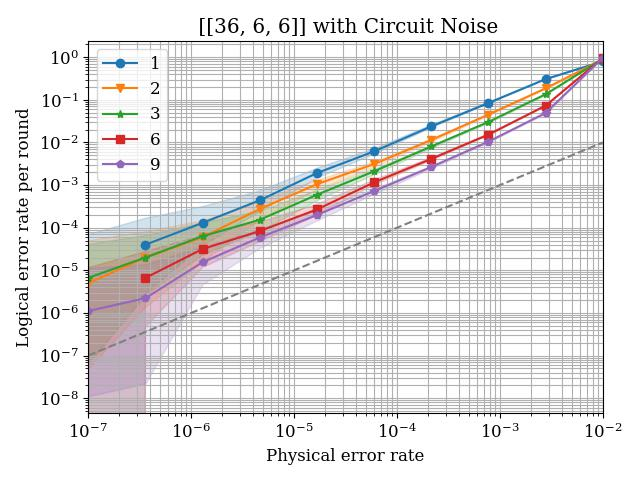
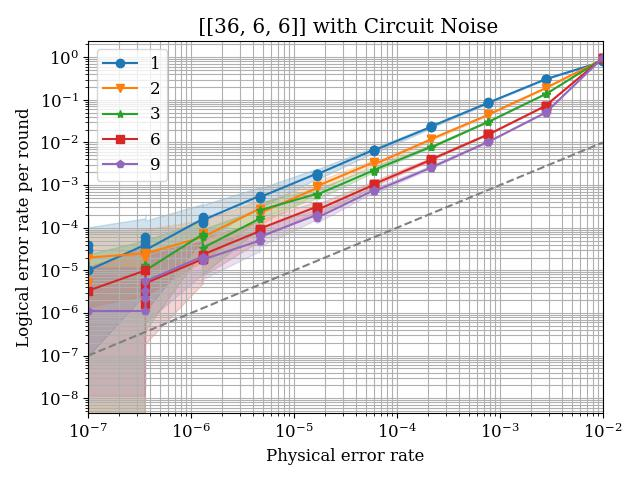
minor changes

diff --git a/mirror.py b/mirror.py
@@ -464,6 +464,7 @@ class MirrorCode():
         Returns:
             * stim.Circuit object of the syndrome extraction circuit for the mirror code.
         """
+        print("Bare...")
         # The first n qubits are the data qubits, and will be the controls for the syndromes.
         QUBITS_PER_STAB = 1
         stabilizers = self.get_stabilizers()
@@ -522,6 +523,7 @@ class MirrorCode():
         Returns:
             * stim.Circuit object of the syndrome extraction circuit for the mirror code.
         """
+        print("Loop...")
         # The first n qubits are the data qubits, and will be the controls for the syndromes.
         QUBITS_PER_STAB = 2
         stabilizers = self.get_stabilizers()
@@ -589,6 +591,7 @@ class MirrorCode():
         Returns:
             * stim.Circuit object of the syndrome extraction circuit for the mirror code.
         """
+        print("CSS FT...")
         # The first n qubits are the data qubits, and will be the controls for the syndromes.
         QUBITS_PER_STAB = 3
         stabilizers = self.get_stabilizers()
@@ -666,6 +669,7 @@ class MirrorCode():
         Returns:
             * stim.Circuit object of the syndrome extraction circuit for the mirror code.
         """
+        print("FT general...")
         # The first n qubits are the data qubits, and will be the controls for the syndromes.
         QUBITS_PER_STAB = 6
         stabilizers = self.get_stabilizers()
@@ -763,6 +767,7 @@ class MirrorCode():
         Returns:
             * stim.Circuit object of the syndrome extraction circuit for the mirror code.
         """
+        print("Superdense...")
         # The first n qubits are the data qubits, and will be the controls for the syndromes.
         QUBITS_PER_STAB = 1
         stabilizers = self.get_stabilizers()

diff --git a/benchmark.py b/benchmark.py
@@ -283,11 +283,11 @@ class StabilizerCode():
         from tesseract_decoder import make_tesseract_sinter_decoders_dict, TesseractSinterDecoder
         tasks = []
 
-        # decoders = ['tesseract', 'tesseract-long-beam', 'tesseract-short-beam']
-        decoders = ['tesseract']
+        decoders = ['tesseract', 'tesseract-long-beam', 'tesseract-short-beam']
+        # decoders = ['tesseract']
         decoder_dict = make_tesseract_sinter_decoders_dict()
-        # # You can also make your own custom Tesseract Decoder to-be-used with Sinter.
-        # decoders.append('custom-tesseract-decoder')
+        # You can also make your own custom Tesseract Decoder to-be-used with Sinter.
+        decoders.append('custom-tesseract-decoder')
         decoder_dict['custom-tesseract-decoder'] = TesseractSinterDecoder(
             det_beam=10,
             beam_climbing=True,

diff --git a/run_benchmark.py b/run_benchmark.py
@@ -172,9 +172,9 @@ if __name__ == "__main__":
 
     benchmarker = StabilizerCode(stabilizers, verbose=False, name=CODE_NAME)
 
-    T_LOW = 7 # min error rate is 10^-T_LOW
+    T_LOW = 6 # min error rate is 10^-T_LOW
     T_HIGH = 2 # max error rate is 10^-T_HIGH
-    NUM_PROBS = 10
+    NUM_PROBS = 8
     NUM_SHOTS = 100_000 * round(n / 30)
 
     if PHENOM:
